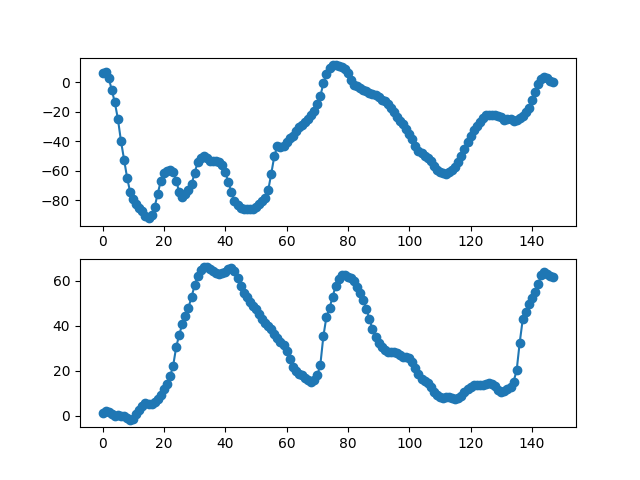
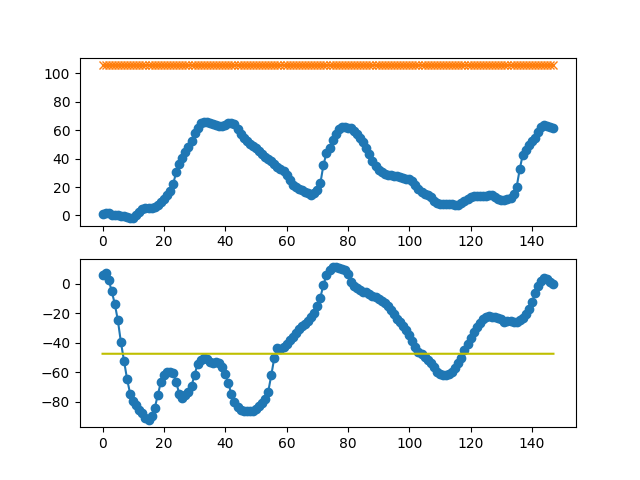
updates

diff --git a/src/video_stabilization_2.py b/src/video_stabilization_2.py
@@ -241,8 +241,7 @@ def apply_smoothing(original_frames, smooth_path, crop_ratio=0.8):
   bottom_left = np.array([centre_x - displacement_x, centre_y + displacement_y, 1])
   bottom_right = np.array([centre_x + displacement_x, centre_y + displacement_y, 1])
   crop_corners = [top_left, top_right, bottom_left, bottom_right]
-  
-  dst_corners = np.array([np.array([0, 0]), np.array([w, 0]), np.array([0, h]), np.array([w, h])]).astype(np.float32)
+  dst_corners = np.array([[0, 0], [w, 0], [0, h], [w, h]]).astype(np.float32)
 
   new_frames = []
   for i in range(1, n):
@@ -279,9 +278,9 @@ def graph_paths(timewise_homographies=[], smooth_path=[]):
     smooth_y_path[i] = smooth_pt[1]
   fig, axs = plt.subplots(2)
   axs[0].plot(np.arange(0, n-1), original_x_path, 'o-')
-  axs[0].plot(np.arange(0, n-1), smooth_x_path, 'x-')
+  axs[0].plot(np.arange(0, n-1), smooth_x_path, '-')
   axs[1].plot(np.arange(0, n-1), original_y_path, 'o-')
-  axs[1].plot(np.arange(0, n-1), smooth_y_path, 'y-')
+  axs[1].plot(np.arange(0, n-1), smooth_y_path, '-')
   plt.savefig('motion.png')
   plt.show()
 
@@ -291,9 +290,9 @@ def main():
   original_frames = read_frames_from_dir(sys.argv[1])
   features = extract_features(original_frames)
   timewise_homographies, _ = compute_timewise_homographies(original_frames, features)
-  # smooth_path = compute_smooth_path(original_frames[0].shape, timewise_homographies)
-  # apply_smoothing(original_frames, timewise_homographies)
-  graph_paths(timewise_homographies)
+  smooth_path = compute_smooth_path(original_frames[0].shape, timewise_homographies)
+  apply_smoothing(original_frames, smooth_path)
+  graph_paths(timewise_homographies, smooth_path)
   
 
 if __name__ == "__main__":
